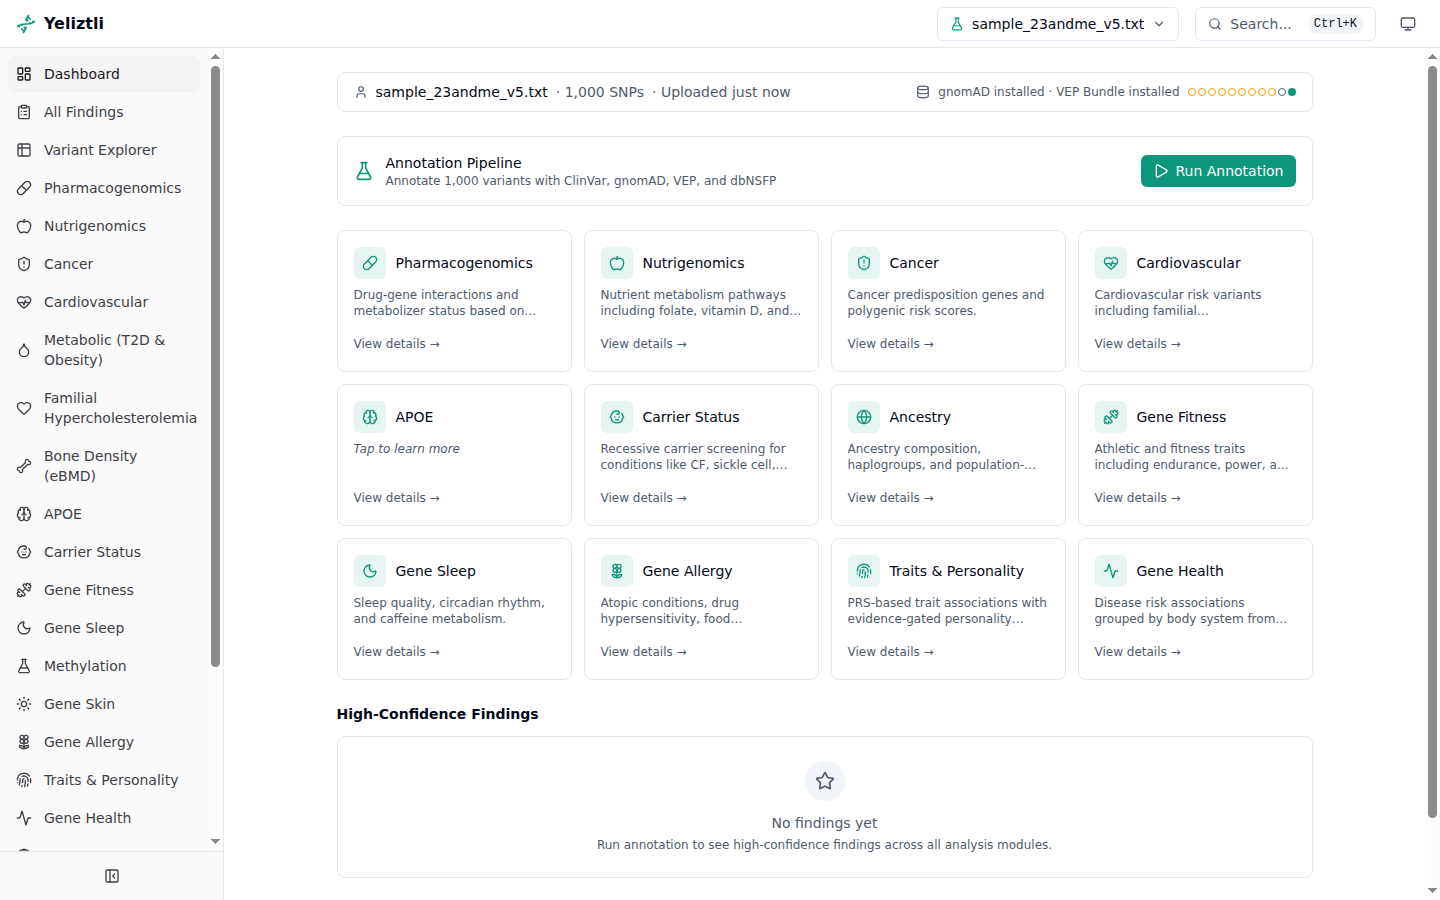
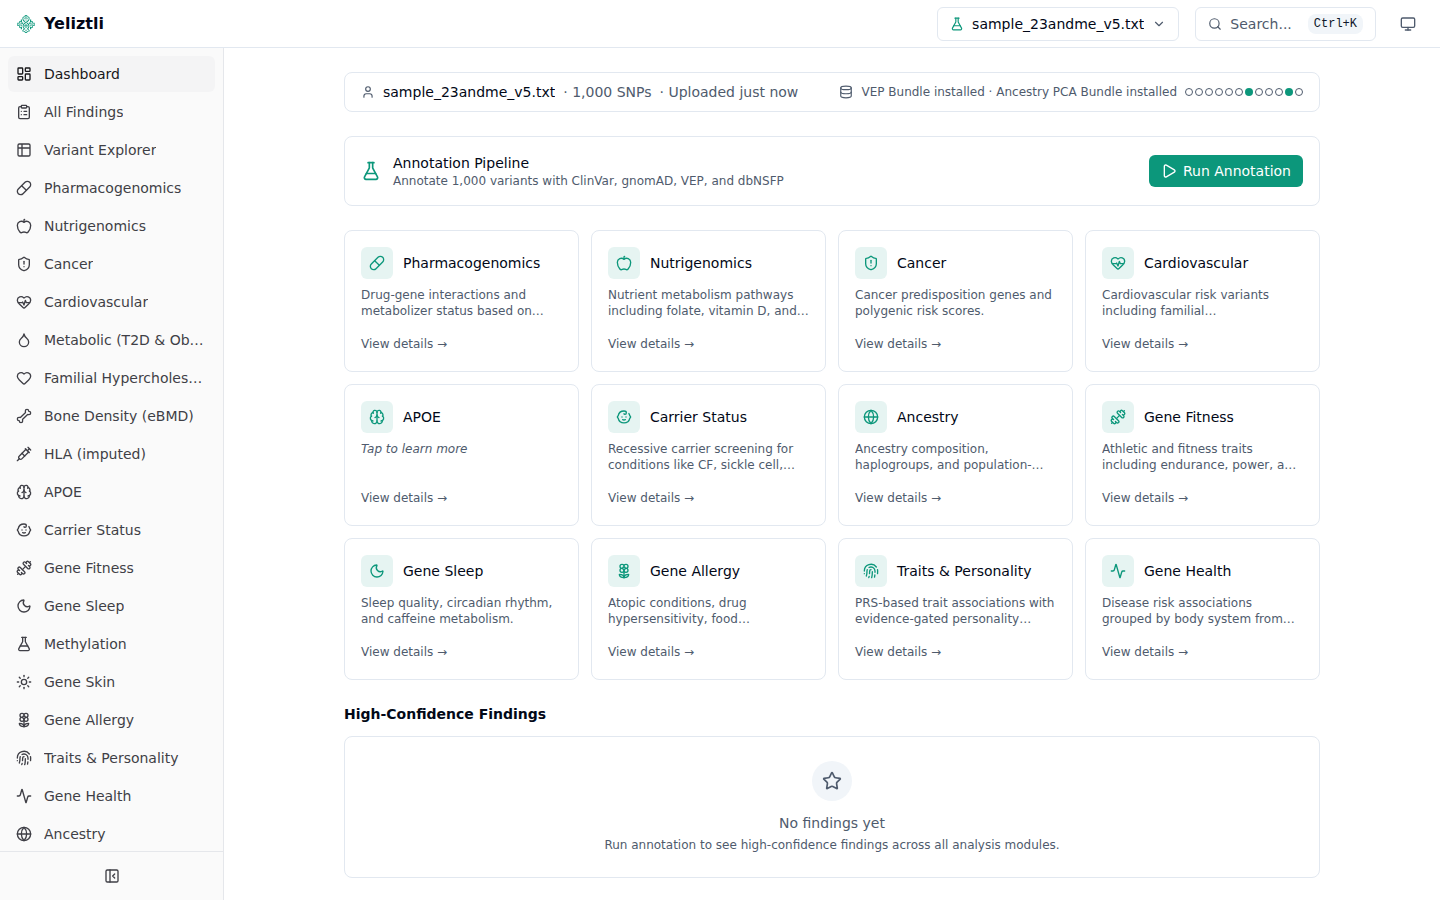
docs: refresh README visuals (#1867)

diff --git a/brand/generate.py b/brand/generate.py
@@ -18,6 +18,7 @@ Colour system (see brand/README.md):
   emblem white  #FFFFFF  — on the teal docs header bar
   emblem navy   #001B3E  — the artwork's native colour; standalone install icons
   background    #FFFFFF  — opaque white for install icons (Apple/maskable ignore alpha)
+  README bg     #000000  — white lockup on an explicit black background
 """
 from __future__ import annotations
 
@@ -33,6 +34,7 @@ SOURCE = Path(__file__).resolve().parent / "logo-source.svg"
 
 TEAL = "#0D9488"   # app --color-primary (light); matches existing favicon
 WHITE = "#FFFFFF"
+BLACK = "#000000"
 NAVY = "#001B3E"   # artwork native colour
 
 # Sub-paths whose starting Y is at/below this line are the "YELIZTLI" wordmark.
@@ -173,6 +175,7 @@ def main() -> None:
     emblem_cc = emblem_svg(path_d, "currentColor")
     lockup_navy = lockup_svg(svg_text, NAVY, WHITE)          # native (navy on white)
     lockup_white = lockup_svg(svg_text, WHITE, None)         # white, transparent
+    lockup_white_black = lockup_svg(svg_text, WHITE, BLACK)  # README (white on black)
 
     print("SVG variants (brand/):")
     write(ROOT / "brand" / "emblem-teal.svg", emblem_teal)
@@ -181,6 +184,7 @@ def main() -> None:
     write(ROOT / "brand" / "emblem-currentcolor.svg", emblem_cc)
     write(ROOT / "brand" / "lockup-navy-on-white.svg", lockup_navy)
     write(ROOT / "brand" / "lockup-white.svg", lockup_white)
+    write(ROOT / "brand" / "lockup-white-on-black.svg", lockup_white_black)
 
     print("App assets (frontend/public/):")
     pub = ROOT / "frontend" / "public"
@@ -201,8 +205,9 @@ def main() -> None:
     img = ROOT / "docs" / "assets" / "img"
     write(img / "logo.svg", emblem_white)                 # on the teal docs header bar
     write(img / "favicon.svg", emblem_teal)               # docs browser tab
-    write(img / "logo-lockup.svg", lockup_navy)           # README banner + docs hero (light)
+    write(img / "logo-lockup.svg", lockup_navy)           # docs hero (light)
     write(img / "logo-lockup-dark.svg", lockup_white)     # docs hero (dark backgrounds)
+    write(img / "logo-lockup-black.svg", lockup_white_black)  # README banner
 
     print("Frontend logo paths (frontend/src/components/layout/):")
     write(

diff --git a/brand/README.md b/brand/README.md
@@ -24,14 +24,16 @@ The logo adapts to the palette of wherever it lands (the app + docs identity is
 | App / docs primary | teal `#0D9488` | in-app marks, tab favicon, docs header (as white on the teal bar) |
 | App primary (dark) | teal `#14B8A6` | auto via `text-primary` / `currentColor` in dark mode |
 | On teal surfaces | white `#FFFFFF` | docs header bar, solid-teal badges |
-| Standalone icons | navy `#001B3E` on white | apple-touch / PWA install / maskable / README banner |
+| Standalone icons | navy `#001B3E` on white | apple-touch / PWA install / maskable |
+| README lockup | white `#FFFFFF` on black `#000000` | repository landing page |
 
 App palette source: `frontend/src/index.css` (`--color-primary`).
 
 ## Generated files
 
 Variants (this dir): `emblem-{teal,white,navy,currentcolor}.svg`,
-`lockup-navy-on-white.svg`, `lockup-white.svg`.
+`lockup-navy-on-white.svg`, `lockup-white.svg`,
+`lockup-white-on-black.svg`.
 
 Served app assets (`frontend/public/`): `favicon.svg` (teal emblem),
 `favicon.ico`, `favicon-32.png`, `apple-touch-icon.png`, `icon-192.png`,
@@ -39,7 +41,8 @@ Served app assets (`frontend/public/`): `favicon.svg` (teal emblem),
 
 Served docs assets (`docs/assets/img/`): `logo.svg` (white emblem, docs header),
 `favicon.svg` (teal emblem, docs tab), `logo-lockup.svg` (navy-on-white full
-lockup — README banner / docs hero), `logo-lockup-dark.svg` (white lockup).
+lockup — light docs hero), `logo-lockup-dark.svg` (white lockup), and
+`logo-lockup-black.svg` (white-on-black README lockup).
 
 ## Regenerate
 

diff --git a/README.md b/README.md
@@ -1,5 +1,5 @@
 <p align="center">
-  <img src="docs/assets/img/logo-lockup.svg" alt="Yeliztli" width="180">
+  <img src="docs/assets/img/logo-lockup-black.svg" alt="Yeliztli" width="180">
 </p>
 
 # Yeliztli
